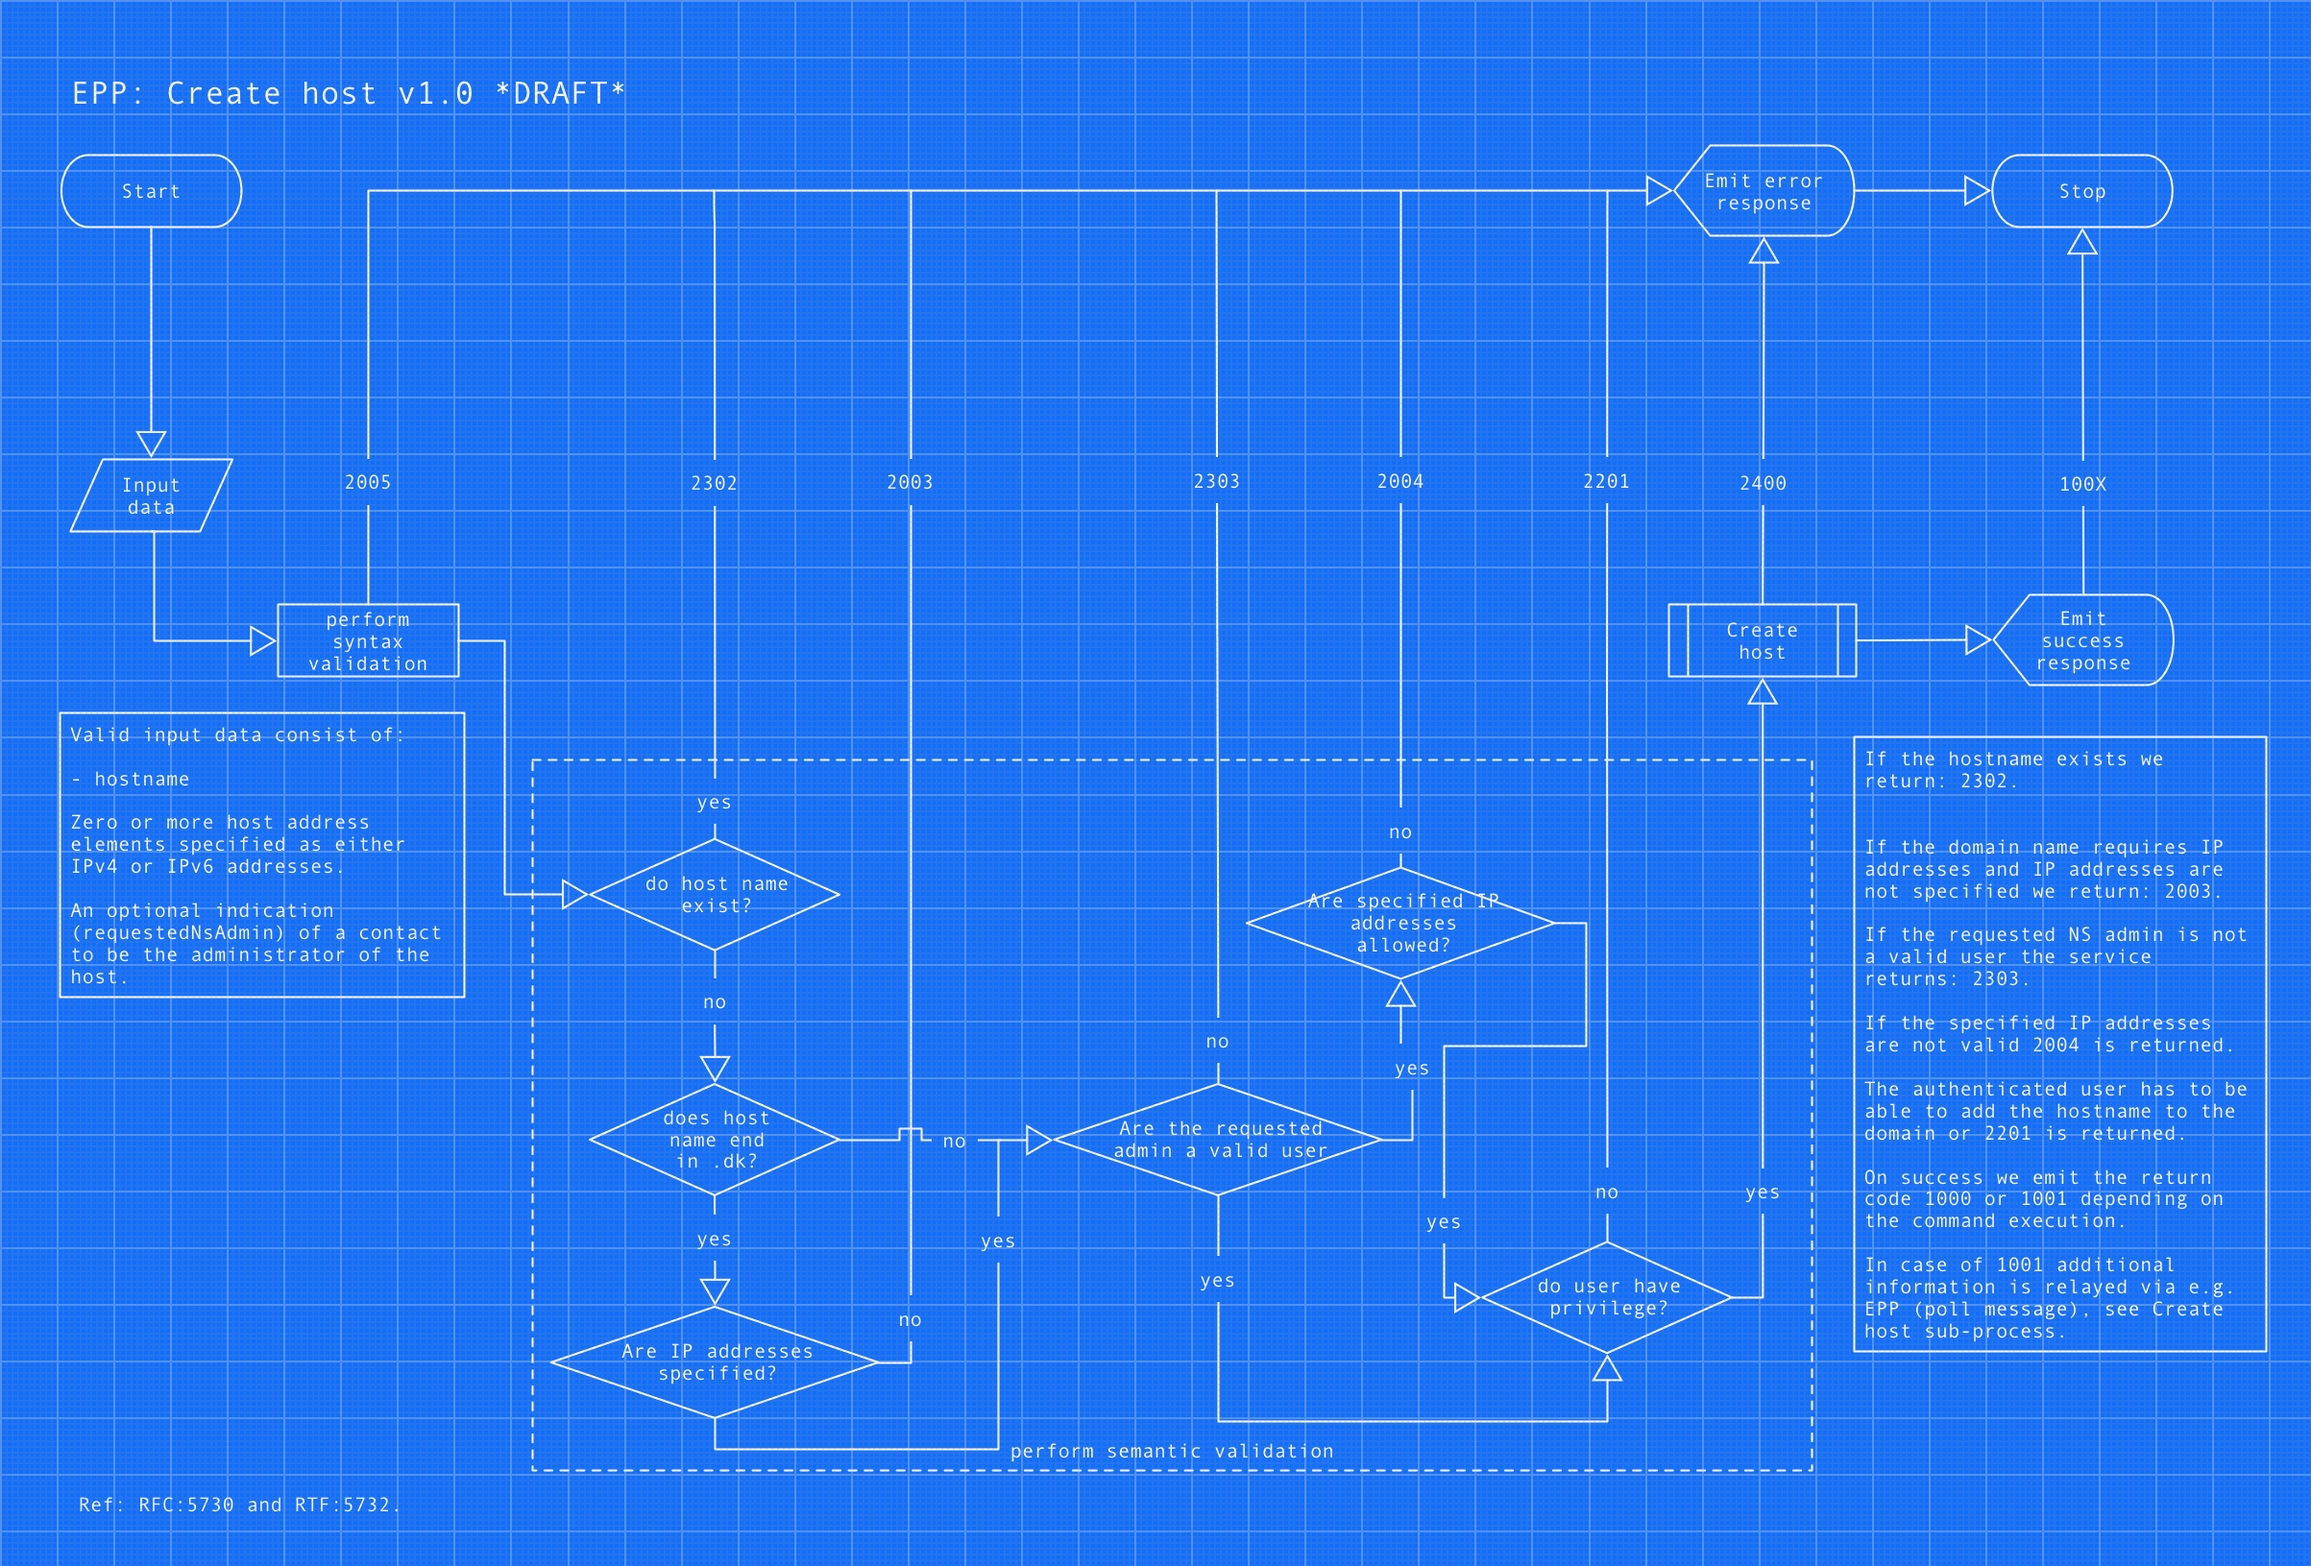
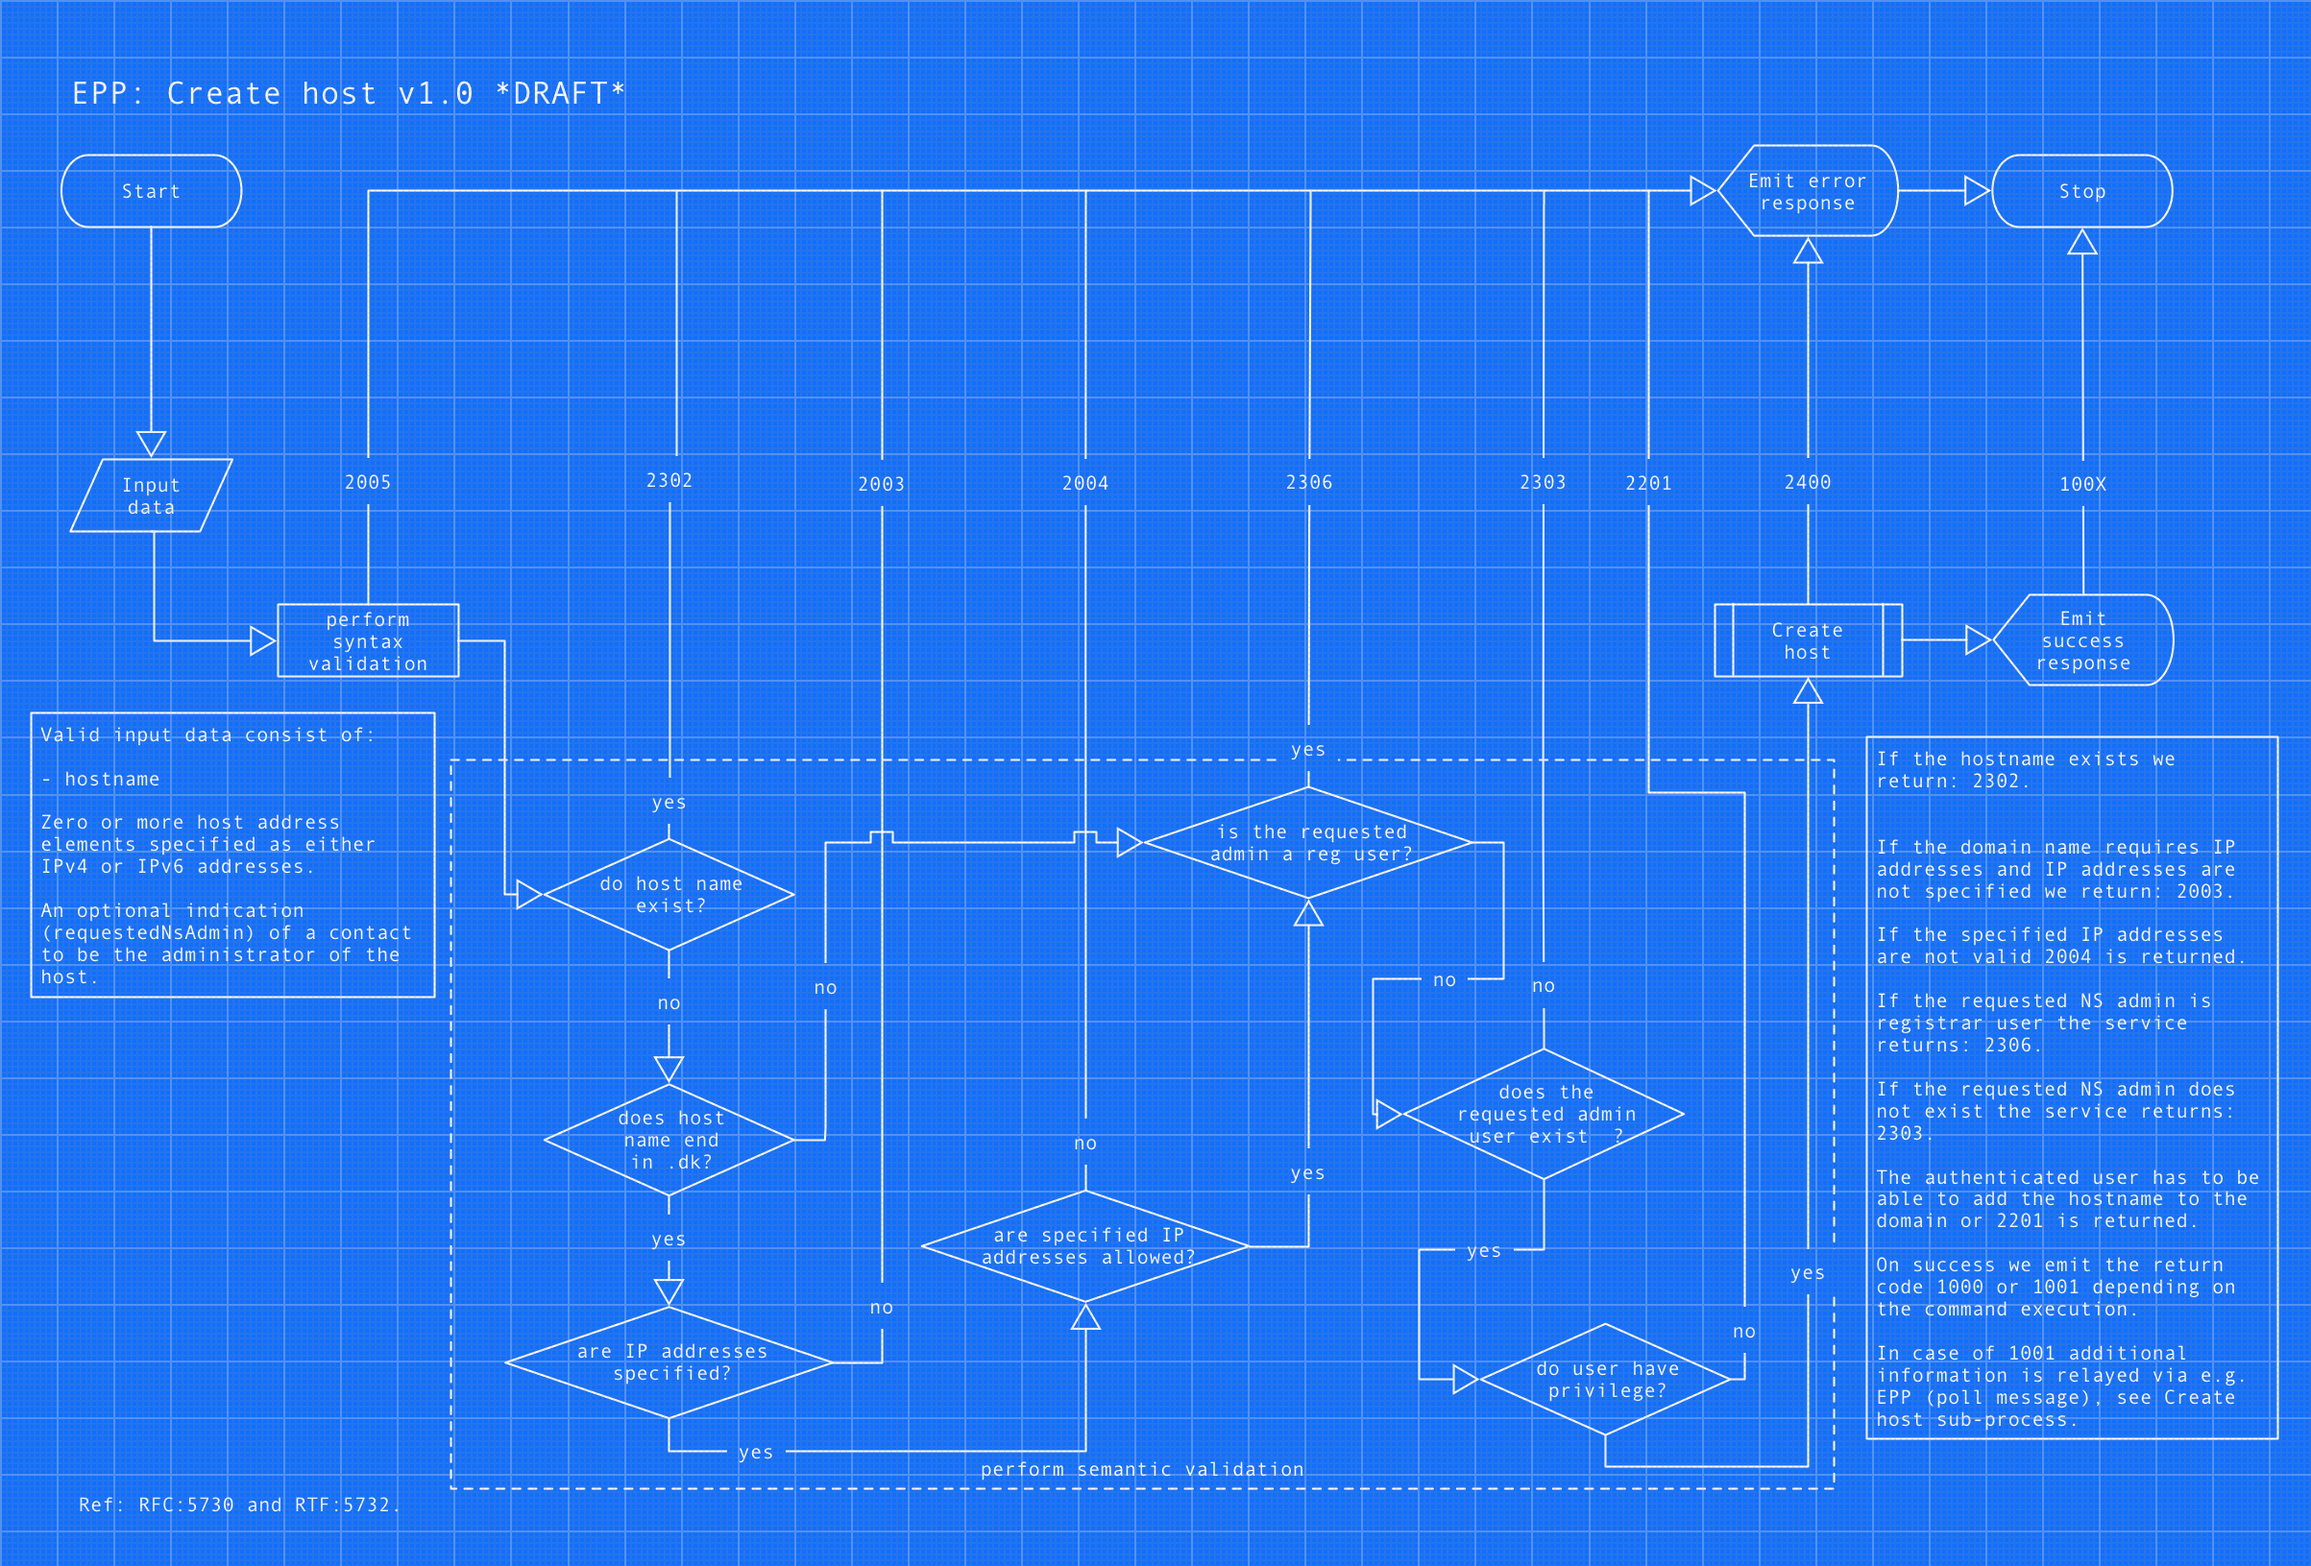
Added 2306 as error code

diff --git a/README.md b/README.md
@@ -972,7 +972,8 @@ The command can be used in two scenarios:
 | ------------ | ------------ |
 | 2302 | If the specified host object already exist |
 | 2003 | If the specified domain ends in '.dk', at least one IP address has to be specified |
-| 2004 | If the specified IP addresses are non-public addresses  |
+| 2004 | If the specified IP addresses are non-public addresses |
+| 2306 | If the specified nameserver administrator is a registrar account  |
 | 2303 | If the contact-id pointed to in `dkhm:requestedNsAdmin` points to a non-existing contact object |
 | 2201 | If the authenticated user does not hold the privilege to update the specified host object |
 | 1000 | If the update host command is successful |
